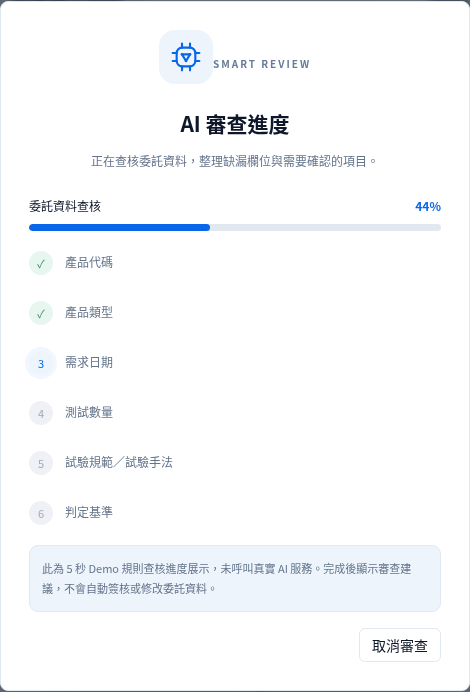
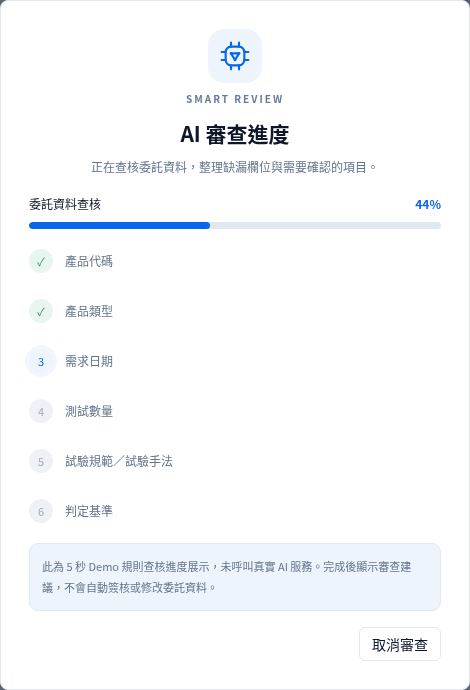
Reuse spaced SMART REVIEW progress dialog for report submission

diff --git a/src/LabApp.jsx b/src/LabApp.jsx
@@ -1,3 +1,4 @@
+import AiReviewProgress from './AiReviewProgress.jsx';
 import {canAccessLabPage} from './customRoles.mjs';
 import './LabWorkspaceExpansion.css';
 import MaterialsPage from './MaterialsPage.jsx';
@@ -45,7 +46,7 @@ import SignatureHistory from './SignatureHistory.jsx';
 import { auditSignatures } from './signatureHistory.mjs';
 import useDemoPersistence from './useDemoPersistence.js';
 import { readDemoAccounts } from "./demoAccounts.mjs";
-import React, { useEffect, useState } from "react";
+import React, { useEffect, useRef, useState } from "react";
 import "./LabApp.css";
 import './LoginEntry.css';
 import './LabLoginDetails.css';
@@ -126,6 +127,7 @@ export default function LabApp({ path, navigate }) {
   const [modalError, setModalError] = useState("");
   const [submitting, setSubmitting] = useState(false);
   const [reportProgress,setReportProgress]=useState(0);
+  const reportSubmitButton=useRef(null);
   const [reportMessage,setReportMessage]=useState('');
   const [reportCheck,setReportCheck]=useState(null);
   const [detail, setDetail] = useState(null);
@@ -230,7 +232,7 @@ export default function LabApp({ path, navigate }) {
   }
   const submitReport = async () => {
     if(preparingReport||submitting)return;
-    setSubmitting(true);setModalError('');setReportCheck(null);
+    setSubmitting(true);setReportProgress(0);setReportMessage('準備讀取報告');setModalError('');setReportCheck(null);
     try{await submitReportWorkflow({requestId:selected.id,file:reportFile,signature:labSignature,actorId:account.id,onProgress:(value,message)=>{setReportProgress(value);setReportMessage(message);}});setRequests(readStorage(STORAGE_KEY,[]));await refreshReportSnapshot();refreshLabSnapshot();setNotice('報告已通過 Demo 防呆檢查，送至 LMS 二階主管審核。');setSelected(null);}catch(error){setModalError(error.message);setReportCheck(error.check||null);}finally{setSubmitting(false);}
   };
 
@@ -278,7 +280,8 @@ export default function LabApp({ path, navigate }) {
       {equipmentRequest&&(()=>{const schedule=sharedSnapshot.schedules.find(r=>r.requestId===equipmentRequest);const machines=sharedSnapshot.equipment.filter(m=>schedule&&usesEquipment(schedule,m));return equipmentChoice?<EquipmentInfoModal equipment={machines.find(m=>m.id===equipmentChoice)||{id:equipmentChoice,name:'設備已移除'}} onClose={()=>{setEquipmentChoice(null);setEquipmentRequest(null);}}/>:<div className="lab-modal-backdrop"><section className="lab-modal" role="dialog" aria-label="試驗設備狀態"><h2>設備狀態｜{equipmentRequest}</h2>{machines.map(m=><p key={m.id}><button type="button" onClick={()=>setEquipmentChoice(m.id)}>{m.id} · {m.name} · {m.status}</button></p>)}{!machines.length&&<p>目前無對應設備。</p>}<button type="button" onClick={()=>setEquipmentRequest(null)}>關閉</button></section></div>;})()}
       {detail && <RequestInfoModal account={account} request={labRequestInformation(detail,sharedSnapshot)} onClose={()=>setDetail(null)}/>}
       {downloadJob && <div className="lab-modal-backdrop"><section className="lab-modal" role="dialog" aria-modal="true" aria-labelledby="download-title"><h2 id="download-title">取得試驗報告單</h2><p>委託編號：{downloadJob.id}</p><p>正在準備 Excel 範本</p><div style={{height:12,background:"#e5edf8",borderRadius:8,overflow:"hidden"}} role="progressbar" aria-label="下載準備進度" aria-valuemin={0} aria-valuemax={100} aria-valuenow={downloadProgress}><div style={{height:"100%",width:`${downloadProgress}%`,background:"#286bc4"}} /></div><p>{downloadProgress}%</p>{downloadProgress === 100 && <><p>已開始下載空白範本，請依委託資料填寫。</p><div className="lab-modal-actions"><button onClick={()=>downloadCaseTemplate(downloadJob.id).catch(error=>setNotice(error.message))}>重新下載</button><button className="lab-primary" onClick={() => setDownloadJob(null)}>關閉</button></div></>}</section></div>}
-      {selected && <div className="lab-modal-backdrop" role="presentation" onMouseDown={e => { if (!submitting && !preparingReport && e.target === e.currentTarget) setSelected(null); }}><section className={`lab-modal ${action==="submitReport"?"report-submit-modal":""}`} role="dialog" aria-modal="true" aria-labelledby="lab-modal-title"><h2 id="lab-modal-title">{({confirm:"確認接收",cancel:"申請取消",interrupt:"申請試驗中斷",complete:"完成試驗",submitReport:"提交試驗報告"})[action]}</h2><p>{selected.id} · {selected.project}</p>{action === "submitReport"&&<div className="report-quickfill-panel"><div className="report-actions"><button type="button" className="report-primary" disabled={submitting||preparingReport} onClick={()=>downloadCaseTemplate(selected.id,true).catch(error=>setModalError(error.message))}>DEMO 填入</button><button type="button" disabled={submitting||preparingReport} onClick={()=>downloadCaseTemplate(selected.id).catch(error=>setModalError(error.message))}>下載本案 Excel 範本</button>{reportFile&&<button type="button" disabled={submitting||preparingReport} onClick={downloadPreparedReport}>下載目前 Excel 報告</button>}</div><p>產生本案假資料 Excel、展示簽名並檢查；確認後提交送簽。</p><div className={`report-review-status ${passedDemoReview(reportCheck)?'is-passed':''}`} role="status"><strong>審查狀態：{(preparingReport||submitting)?'產生／檢查中…':passedDemoReview(reportCheck)?DEMO_REVIEW_PASSED:reportCheck?'未通過檢查':'尚未檢查'}</strong>{reportCheck&&<span>目前規則：{reportCheck.checks.filter(row=>row.ok).length}／{reportCheck.checks.length} 項通過</span>}</div><details className="report-quickfill-help"><summary>Demo 限制與出報告流程</summary><small>此為 Demo 規則模擬，未連接真正 AI；不代表正式試驗合格。圖片簽名無正式電子簽章效力。須依序完成二階、三階簽核，由委託者主管確認查閱後才產生 PDF 並封存。</small></details></div>}{!['confirm','cancel'].includes(action) && <ApprovalSignature key={selected.id} label="本次操作簽名" accountId={account.id} mode={signatureMode} onModeChange={setSignatureMode} value={labSignature} onChange={setLabSignature} onError={setModalError} />}{(action === "cancel" || action === "interrupt") && <><label htmlFor="lab-reason">原因（必填）</label><textarea id="lab-reason" value={reason} onChange={e => setReason(e.target.value)} placeholder="請填寫操作原因" rows="4" /></>}{action === "submitReport" && <>{preparingReport&&<p role="status">正在產生／檢查本案報告，請稍候…</p>}<label htmlFor="lab-report-file">上傳 Excel 報告（必填）</label><input id="lab-report-file" type="file" disabled={submitting||preparingReport} accept=".xlsx,application/vnd.openxmlformats-officedocument.spreadsheetml.sheet" onChange={e=>{setReportFile(e.target.files?.[0]||null);setModalError('');setReportCheck(null);}}/><p>{reportFile?.name||'尚未選擇檔案'}</p><div className="report-actions"><button type="button" disabled={!reportFile||submitting||preparingReport} onClick={previewReportCheck}>重新檢查報告</button></div><small>僅供 Demo：一般性能試驗使用已接入的雙工作表範本；其餘試驗暫用本案簡化範本（.xlsx，10 MB 以內）。請先下載本案範本，系統會帶入報告編號與品番。簽名位置由系統固定配置，無需設定。上傳時轉印執行人員簽名，三方由左至右為三階、二階、執行人員；不具正式電子簽章效力。Demo 僅依規則檢查欄位、判定勾選與公式，不代表所有測項完整或符合規格；PDF 支援標準表格及簽名，複雜圖表與巨集不適用。</small>{submitting&&<div className="report-progress" role="status"><p>報告防呆審查 · 規則檢查（非 AI 判讀）：{reportMessage}</p><progress max="100" value={reportProgress}/></div>}{reportCheck&&<div className="report-checks">{reportCheck.checks.map(row=><p key={row.label}>{row.ok?'✓':'!'} {row.label}：{row.detail}</p>)}</div>}</>}{modalError && <p className="lab-warning" role="alert">{modalError}</p>}{action==="submitReport"&&!sharedSnapshot.electronic.some(r=>r.id===selected.id)&&<button type="button" className="lab-primary" disabled={submitting||preparingReport} onClick={createLinkedDemoTrial}>建立完整流程 Demo 案件</button>}{(action === "cancel" || action === "interrupt") && <p className="lab-warning">{action==='cancel'?'送出後進入 LMS 待核准，一階主管核准後才退回待排程。':'中斷申請將交由 LMS 一階主管審核。'}</p>}<div className="lab-modal-actions"><button disabled={submitting||preparingReport} onClick={() => setSelected(null)}>返回</button><button className="lab-primary" disabled={submitting||preparingReport||(action==="submitReport"&&(!reportFile||!labSignature))} onClick={action === "submitReport" ? submitReport : performAction}>{submitting ? "檢查與儲存中…" : action === "submitReport" ? "提交" : "確認送出"}</button></div></section></div>}
+      {submitting&&selected&&action==='submitReport'&&<AiReviewProgress kind="report" progress={reportProgress} message={reportMessage} returnFocus={reportSubmitButton}/>}
+      {selected && <div className="lab-modal-backdrop" role="presentation" onMouseDown={e => { if (!submitting && !preparingReport && e.target === e.currentTarget) setSelected(null); }}><section className={`lab-modal ${action==="submitReport"?"report-submit-modal":""}`} role="dialog" aria-modal="true" aria-labelledby="lab-modal-title"><h2 id="lab-modal-title">{({confirm:"確認接收",cancel:"申請取消",interrupt:"申請試驗中斷",complete:"完成試驗",submitReport:"提交試驗報告"})[action]}</h2><p>{selected.id} · {selected.project}</p>{action === "submitReport"&&<div className="report-quickfill-panel"><div className="report-actions"><button type="button" className="report-primary" disabled={submitting||preparingReport} onClick={()=>downloadCaseTemplate(selected.id,true).catch(error=>setModalError(error.message))}>DEMO 填入</button><button type="button" disabled={submitting||preparingReport} onClick={()=>downloadCaseTemplate(selected.id).catch(error=>setModalError(error.message))}>下載本案 Excel 範本</button>{reportFile&&<button type="button" disabled={submitting||preparingReport} onClick={downloadPreparedReport}>下載目前 Excel 報告</button>}</div><p>產生本案假資料 Excel、展示簽名並檢查；確認後提交送簽。</p><div className={`report-review-status ${passedDemoReview(reportCheck)?'is-passed':''}`} role="status"><strong>審查狀態：{(preparingReport||submitting)?'產生／檢查中…':passedDemoReview(reportCheck)?DEMO_REVIEW_PASSED:reportCheck?'未通過檢查':'尚未檢查'}</strong>{reportCheck&&<span>目前規則：{reportCheck.checks.filter(row=>row.ok).length}／{reportCheck.checks.length} 項通過</span>}</div><details className="report-quickfill-help"><summary>Demo 限制與出報告流程</summary><small>此為 Demo 規則模擬，未連接真正 AI；不代表正式試驗合格。圖片簽名無正式電子簽章效力。須依序完成二階、三階簽核，由委託者主管確認查閱後才產生 PDF 並封存。</small></details></div>}{!['confirm','cancel'].includes(action) && <ApprovalSignature key={selected.id} label="本次操作簽名" accountId={account.id} mode={signatureMode} onModeChange={setSignatureMode} value={labSignature} onChange={setLabSignature} onError={setModalError} />}{(action === "cancel" || action === "interrupt") && <><label htmlFor="lab-reason">原因（必填）</label><textarea id="lab-reason" value={reason} onChange={e => setReason(e.target.value)} placeholder="請填寫操作原因" rows="4" /></>}{action === "submitReport" && <>{preparingReport&&<p role="status">正在產生／檢查本案報告，請稍候…</p>}<label htmlFor="lab-report-file">上傳 Excel 報告（必填）</label><input id="lab-report-file" type="file" disabled={submitting||preparingReport} accept=".xlsx,application/vnd.openxmlformats-officedocument.spreadsheetml.sheet" onChange={e=>{setReportFile(e.target.files?.[0]||null);setModalError('');setReportCheck(null);}}/><p>{reportFile?.name||'尚未選擇檔案'}</p><div className="report-actions"><button type="button" disabled={!reportFile||submitting||preparingReport} onClick={previewReportCheck}>重新檢查報告</button></div><small>僅供 Demo：一般性能試驗使用已接入的雙工作表範本；其餘試驗暫用本案簡化範本（.xlsx，10 MB 以內）。請先下載本案範本，系統會帶入報告編號與品番。簽名位置由系統固定配置，無需設定。上傳時轉印執行人員簽名，三方由左至右為三階、二階、執行人員；不具正式電子簽章效力。Demo 僅依規則檢查欄位、判定勾選與公式，不代表所有測項完整或符合規格；PDF 支援標準表格及簽名，複雜圖表與巨集不適用。</small>{reportCheck&&<div className="report-checks">{reportCheck.checks.map(row=><p key={row.label}>{row.ok?'✓':'!'} {row.label}：{row.detail}</p>)}</div>}</>}{modalError && <p className="lab-warning" role="alert">{modalError}</p>}{action==="submitReport"&&!sharedSnapshot.electronic.some(r=>r.id===selected.id)&&<button type="button" className="lab-primary" disabled={submitting||preparingReport} onClick={createLinkedDemoTrial}>建立完整流程 Demo 案件</button>}{(action === "cancel" || action === "interrupt") && <p className="lab-warning">{action==='cancel'?'送出後進入 LMS 待核准，一階主管核准後才退回待排程。':'中斷申請將交由 LMS 一階主管審核。'}</p>}<div className="lab-modal-actions"><button disabled={submitting||preparingReport} onClick={() => setSelected(null)}>返回</button><button ref={reportSubmitButton} className="lab-primary" disabled={submitting||preparingReport||(action==="submitReport"&&(!reportFile||!labSignature))} onClick={action === "submitReport" ? submitReport : performAction}>{submitting ? "檢查與儲存中…" : action === "submitReport" ? "提交" : "確認送出"}</button></div></section></div>}
     </div>
   );
 }

diff --git a/src/AiReviewProgress.jsx b/src/AiReviewProgress.jsx
@@ -5,16 +5,19 @@ import useSystemTheme from './useSystemTheme.js';
 import './ScheduleArrangement.css';
 import './AiReviewProgress.css';
 
-const steps=['產品代碼','產品類型','需求日期','測試數量','試驗規範／試驗手法','判定基準'];
-export default function AiReviewProgress({progress,onCancel,returnFocus}){
+const requestSteps=['產品代碼','產品類型','需求日期','測試數量','試驗規範／試驗手法','判定基準'];
+const reportSteps=['讀取 Excel 報告','查核委託編號、試驗結果與公式','確認簽名、儲存報告並送二階主管審核'];
+export default function AiReviewProgress({progress,onCancel,returnFocus,kind='request',message}){
  const {dark}=useSystemTheme(),dialog=useRef(null),cancel=useRef(null);
- useEffect(()=>{const node=dialog.current,trigger=returnFocus.current,overflow=document.body.style.overflow;document.body.style.overflow='hidden';node.showModal();cancel.current?.focus({preventScroll:true});return()=>{node.close();document.body.style.overflow=overflow;trigger?.focus({preventScroll:true});};},[returnFocus]);
- const active=Math.min(steps.length-1,Math.floor(progress*steps.length/100));
- return createPortal(<div className={`ai-review-progress-host lms-enterprise ${dark?'theme-dark':'theme-light'}`}><dialog ref={dialog} className="schedule-ai-dialog ai-review-progress-dialog" aria-labelledby="ai-review-progress-title" aria-describedby="ai-review-progress-description" aria-busy="true" onCancel={event=>{event.preventDefault();event.stopPropagation();onCancel();}}>
-  <header><span className="schedule-ai-symbol" aria-hidden="true"><AssistantIcon size={22}/></span><span>SMART REVIEW</span><h3 id="ai-review-progress-title">AI 審查進度</h3><p id="ai-review-progress-description">正在查核委託資料，整理缺漏欄位與需要確認的項目。</p></header>
-  <div className="schedule-ai-progress-heading"><span>委託資料查核</span><strong>{progress}%</strong></div><div className="schedule-ai-progress" role="progressbar" aria-label="審查進度" aria-valuenow={progress} aria-valuemin={0} aria-valuemax={100}><span style={{width:`${progress}%`}}/></div>
+ const report=kind==='report',steps=report?reportSteps:requestSteps;
+ const title=report?'AI 報告審查進度':'AI 審查進度';
+ useEffect(()=>{const node=dialog.current,trigger=returnFocus.current,overflow=document.body.style.overflow;document.body.style.overflow='hidden';node.showModal();(cancel.current?.disabled?node:cancel.current)?.focus({preventScroll:true});return()=>{node.close();document.body.style.overflow=overflow;trigger?.focus({preventScroll:true});};},[returnFocus]);
+ const active=report?(progress<45?0:progress<80?1:2):Math.min(steps.length-1,Math.floor(progress*steps.length/100));
+ return createPortal(<div className={`ai-review-progress-host lms-enterprise ${dark?'theme-dark':'theme-light'}`}><dialog ref={dialog} className="schedule-ai-dialog ai-review-progress-dialog" aria-labelledby="ai-review-progress-title" aria-describedby="ai-review-progress-description" aria-busy="true" tabIndex={-1} onCancel={event=>{event.preventDefault();event.stopPropagation();onCancel?.();}}>
+  <header><span className="schedule-ai-symbol" aria-hidden="true"><AssistantIcon size={22}/></span><span className="ai-progress-eyebrow">SMART REVIEW</span><h3 id="ai-review-progress-title">{title}</h3><p id="ai-review-progress-description">{report?'正在查核報告內容、簽名與檔案格式，依既有規則完成提交。':'正在查核委託資料，整理缺漏欄位與需要確認的項目。'}</p></header>
+  <div className="schedule-ai-progress-heading"><span>{report?'報告資料查核':'委託資料查核'}</span><strong>{progress}%</strong></div><div className="schedule-ai-progress" role="progressbar" aria-label={report?'報告審查進度':'審查進度'} aria-valuenow={progress} aria-valuemin={0} aria-valuemax={100}><span style={{width:`${progress}%`}}/></div>
   <ol className="schedule-ai-steps">{steps.map((step,index)=><li key={step} className={index<active?'complete':index===active?'active':''}><span aria-hidden="true">{index<active?'✓':index+1}</span><p>{step}</p></li>)}</ol>
-  <p className="schedule-ai-step-status" role="status">正在檢查：{steps[active]}</p><p className="schedule-ai-explanation">此為 5 秒 Demo 規則查核進度展示，未呼叫真實 AI 服務。完成後顯示審查建議，不會自動簽核或修改委託資料。</p>
-  <footer><button ref={cancel} type="button" onClick={onCancel}>取消審查</button></footer>
+  <p className="schedule-ai-step-status" role="status">{message||`正在檢查：${steps[active]}`}</p><p className="schedule-ai-explanation">{report?'報告防呆審查採 Demo 規則檢查，非 AI 判讀；進度依實際處理階段顯示。通過後提交二階主管審核，尚不代表主管核准。儲存期間請稍候。':'此為 5 秒 Demo 規則查核進度展示，未呼叫真實 AI 服務。完成後顯示審查建議，不會自動簽核或修改委託資料。'}</p>
+  <footer><button ref={cancel} type="button" disabled={!onCancel} onClick={onCancel}>{onCancel?'取消審查':'正在查核與提交…'}</button></footer>
  </dialog></div>,document.body);
 }

diff --git a/e2e/ai-review-progress.spec.js b/e2e/ai-review-progress.spec.js
@@ -4,7 +4,7 @@ for(const width of [1366,390])for(const theme of ['light','dark'])test(`AI revie
  const time=new Date('2026-11-04T04:00:00Z');await page.clock.install({time});await page.clock.pauseAt(new Date(time.getTime()+1000));await page.setViewportSize({width,height:width===390?844:900});
  await page.addInitScript(({accounts,theme})=>{if(!localStorage.getItem('ai-review-seeded')){localStorage.setItem('ai-review-seeded','1');localStorage.setItem('dqa-shared-demo-accounts-v1',JSON.stringify(accounts));localStorage.setItem('dqa-global-theme',theme);localStorage.setItem('dqa-completed-flow-provisioned-v1',JSON.stringify({created:false}));for(const key of ['dqa-request-demo-v2','dqa-lab-operations-v1','dqa-borrow-requests-v1','dqa-schedules-demo-v1','dqa_lab_demo_requests_v1'])localStorage.setItem(key,'[]');localStorage.setItem('dqa-lms-reviews-v1',JSON.stringify([{id:'AI-PROGRESS-DEMO',title:'高溫儲存試驗',productCode:'DEMO-001',department:'Demo 部門',applicant:'Demo 工程師',priority:'一般',submitted:'2026-11-04',status:'待審查',history:[],approval:0,quantity:2}]));}sessionStorage.setItem('dqa-lms-account-id','U001');},{accounts:INITIAL_ACCOUNTS,theme});
  await page.goto('/lms/requests');await page.getByRole('button',{name:'審查',exact:true}).first().click();const request=page.locator('.request-modal'),ai=request.getByRole('button',{name:'AI 審查',exact:true});const snapshot=()=>page.evaluate(()=>Object.fromEntries(['dqa-request-demo-v2','dqa-lms-reviews-v1','dqa-schedules-demo-v1','dqa-shared-demo-accounts-v1'].map(key=>[key,localStorage.getItem(key)])));const before=await snapshot();
- await ai.click();let progress=page.getByRole('dialog',{name:'AI 審查進度',exact:true});await expect(progress).toBeVisible();expect(await progress.evaluate(el=>el.matches(':modal'))).toBe(true);await expect(progress.getByRole('button',{name:'取消審查',exact:true})).toBeFocused();await page.clock.runFor(2200);const bar=progress.getByRole('progressbar',{name:'審查進度',exact:true});expect(Number(await bar.getAttribute('aria-valuenow'))).toBeGreaterThanOrEqual(40);expect(Number(await bar.getAttribute('aria-valuenow'))).toBeLessThan(100);await expect(progress.locator('.schedule-ai-steps li')).toHaveCount(6);await expect(progress).toContainText('Demo 規則查核');const box=await progress.boundingBox();expect(box.x).toBeGreaterThanOrEqual(0);expect(box.x+box.width).toBeLessThanOrEqual(width);await progress.screenshot({animations:'disabled',path:test.info().outputPath(`ai-review-progress-${width}-${theme}.png`)});
+ await ai.click();let progress=page.getByRole('dialog',{name:'AI 審查進度',exact:true});await expect(progress).toBeVisible();expect(await progress.evaluate(el=>el.matches(':modal'))).toBe(true);await expect(progress.getByRole('button',{name:'取消審查',exact:true})).toBeFocused();await page.clock.runFor(2200);const bar=progress.getByRole('progressbar',{name:'審查進度',exact:true});expect(Number(await bar.getAttribute('aria-valuenow'))).toBeGreaterThanOrEqual(40);expect(Number(await bar.getAttribute('aria-valuenow'))).toBeLessThan(100);await expect(progress.locator('.schedule-ai-steps li')).toHaveCount(6);const symbol=await progress.locator('.schedule-ai-symbol').boundingBox(),eyebrow=await progress.locator('.ai-progress-eyebrow').boundingBox();expect(eyebrow.y-symbol.y-symbol.height).toBeGreaterThanOrEqual(6);await expect(progress).toContainText('Demo 規則查核');const box=await progress.boundingBox();expect(box.x).toBeGreaterThanOrEqual(0);expect(box.x+box.width).toBeLessThanOrEqual(width);await progress.screenshot({animations:'disabled',path:test.info().outputPath(`ai-review-progress-${width}-${theme}.png`)});
  await page.clock.runFor(3000);await expect(progress).toHaveCount(0);await expect(request.getByRole('heading',{name:'AI 審查結果',exact:true})).toBeVisible();await expect(request).toContainText('缺少產品類型');await expect(ai).toBeFocused();expect(await snapshot()).toEqual(before);
  await ai.click();await page.clock.runFor(1200);await page.getByRole('dialog',{name:'AI 審查進度',exact:true}).getByRole('button',{name:'取消審查',exact:true}).click();await expect(ai).toBeFocused();await page.clock.runFor(6000);await expect(request.getByRole('heading',{name:'AI 審查結果',exact:true})).toHaveCount(0);await expect(request).toBeVisible();
  await ai.click();await page.keyboard.press('Escape');await expect(page.getByRole('dialog',{name:'AI 審查進度',exact:true})).toHaveCount(0);await expect(request).toBeVisible();await expect(ai).toBeFocused();await page.clock.runFor(6000);await expect(request.getByRole('heading',{name:'AI 審查結果',exact:true})).toHaveCount(0);expect(await snapshot()).toEqual(before);expect(await page.evaluate(()=>document.documentElement.scrollWidth<=innerWidth)).toBe(true);expect(await page.pageErrors()).toEqual([]);

diff --git a/e2e/report-ai-progress.spec.js b/e2e/report-ai-progress.spec.js
@@ -1,0 +1,12 @@
+import {test,expect} from '@playwright/test';
+import {INITIAL_ACCOUNTS} from '../src/demoAccounts.mjs';
+for(const width of [1366,390])for(const theme of ['light','dark'])test(`report AI-style progress ${width} ${theme}: real stages and existing submission validation`,async({page})=>{
+ const time=new Date('2026-11-04T04:00:00Z');await page.clock.install({time});await page.setViewportSize({width,height:width===390?844:900});
+ await page.addInitScript(({accounts,theme})=>{if(!localStorage.getItem('report-progress-seeded')){localStorage.setItem('report-progress-seeded','1');localStorage.setItem('dqa-shared-demo-accounts-v1',JSON.stringify(accounts));localStorage.setItem('dqa-global-theme',theme);localStorage.setItem('dqa-completed-flow-provisioned-v1',JSON.stringify({created:false}));for(const key of ['dqa-request-demo-v2','dqa-lms-reviews-v1','dqa-schedules-demo-v1','dqa_lab_demo_requests_v1','dqa_lab_demo_audit_v1','dqa-lab-operations-v1','dqa-borrow-requests-v1'])localStorage.setItem(key,'[]');}sessionStorage.setItem('dqa-lab-account-id','U003');},{accounts:INITIAL_ACCOUNTS,theme});
+ await page.goto('/lab/dashboard');await page.getByRole('button',{name:'Demo試驗加速器',exact:true}).click();await page.getByRole('button',{name:'Demo試驗加速器',exact:true}).click();await page.getByRole('button',{name:'提交報告',exact:true}).click();await page.getByRole('button',{name:'DEMO 填入',exact:true}).click();await expect(page.locator('.report-review-status')).toContainText('通過 AI 全檢');const id=await page.evaluate(()=>JSON.parse(localStorage.getItem('dqa_lab_demo_requests_v1'))[0].id);
+ const report=()=>page.evaluate(async id=>{const {getReport}=await import('/src/reportStore.mjs');const r=await getReport(id);return r?{stage:r.stage,approvals:r.approvals,pdfName:r.pdfName}:null;},id);
+ if(theme==='light'&&width===1366){await page.locator('#lab-report-file').setInputFiles({name:'invalid.xlsx',mimeType:'application/vnd.openxmlformats-officedocument.spreadsheetml.sheet',buffer:Buffer.from('not an Excel file')});await page.getByRole('button',{name:'提交',exact:true}).click();await expect(page.locator('.lab-warning[role=alert]')).toBeVisible();await expect(page.getByRole('dialog',{name:'AI 報告審查進度',exact:true})).toHaveCount(0);expect(await report()).toBeNull();await expect(page.getByRole('button',{name:'提交',exact:true})).toBeEnabled();await page.getByRole('button',{name:'DEMO 填入',exact:true}).click();await expect(page.locator('.report-review-status')).toContainText('通過 AI 全檢');}
+ await page.clock.pauseAt(new Date(await page.evaluate(()=>Date.now())+1000));
+ await page.getByRole('button',{name:'提交',exact:true}).click();const progress=page.getByRole('dialog',{name:'AI 報告審查進度',exact:true});await expect(progress).toBeVisible();expect(await progress.evaluate(el=>el.matches(':modal'))).toBe(true);await expect.poll(async()=>{await page.clock.runFor(1);return progress.getByRole('progressbar',{name:'報告審查進度',exact:true}).getAttribute('aria-valuenow');},{timeout:15000,intervals:[10,20,50]}).toBe('80');await expect(progress).toContainText('非 AI 判讀');await expect(progress.locator('.schedule-ai-steps li')).toHaveCount(3);await expect(progress.getByRole('button',{name:'正在查核與提交…',exact:true})).toBeDisabled();await page.keyboard.press('Escape');await expect(progress).toBeVisible();expect(await report()).toBeNull();const symbol=await progress.locator('.schedule-ai-symbol').boundingBox(),eyebrow=await progress.locator('.ai-progress-eyebrow').boundingBox();expect(eyebrow.y-symbol.y-symbol.height).toBeGreaterThanOrEqual(6);await progress.screenshot({animations:'disabled',path:test.info().outputPath(`report-ai-progress-${width}-${theme}.png`)});
+ await page.clock.runFor(1500);await expect(progress).toHaveCount(0);await expect(page.getByRole('status')).toContainText('送至 LMS 二階主管審核');expect(await report()).toEqual({stage:'level2',approvals:[],pdfName:undefined});expect(await page.evaluate(id=>JSON.parse(localStorage.getItem('dqa-request-demo-v2')).find(r=>r.id===id).status,id)).toBe('待審核');expect(await page.pageErrors()).toEqual([]);
+});

diff --git a/playwright.admin-regression.config.js b/playwright.admin-regression.config.js
@@ -1,5 +1,5 @@
 import {defineConfig} from '@playwright/test';
 // Keep source-import integration tests on Vite dev; exercise all other suites on the production build.
-const sourceSuites=['demo.spec.js','nine-stage-seed.spec.js','request-borrow-ui.spec.js','lms-review-tabs.spec.js','system-tabs.spec.js','report-prearchive-preview.spec.js'];
+const sourceSuites=['demo.spec.js','nine-stage-seed.spec.js','request-borrow-ui.spec.js','lms-review-tabs.spec.js','system-tabs.spec.js','report-prearchive-preview.spec.js','report-ai-progress.spec.js'];
 const launchOptions={executablePath:process.env.PLAYWRIGHT_CHROMIUM_EXECUTABLE_PATH||'/usr/bin/chromium',args:['--disable-dev-shm-usage']};
 export default defineConfig({testDir:'./e2e',outputDir:'./work/admin-regression',workers:2,timeout:60000,use:{timezoneId:'Asia/Taipei',actionTimeout:15000,trace:'retain-on-failure',launchOptions},projects:[{name:'existing-source-integrations',testMatch:sourceSuites,use:{baseURL:'http://127.0.0.1:4213'}},{name:'production-workspaces',testIgnore:sourceSuites,use:{baseURL:'http://127.0.0.1:4212'}}],webServer:[{command:'npm run dev -- --host 127.0.0.1 --port 4213 --strictPort',url:'http://127.0.0.1:4213',reuseExistingServer:false},{command:'npm run preview -- --host 127.0.0.1 --port 4212 --strictPort',url:'http://127.0.0.1:4212',reuseExistingServer:false}]});

diff --git a/src/AiReviewProgress.css b/src/AiReviewProgress.css
@@ -10,3 +10,10 @@
 .ai-review-progress-dialog .schedule-ai-explanation{background:var(--soft);border:1px solid var(--enterprise-border);color:var(--enterprise-secondary)}
 .ai-review-progress-dialog .schedule-ai-progress{background:var(--enterprise-border)}
 .ai-review-progress-dialog .schedule-ai-progress-heading strong{color:var(--tab-accent)}
+
+.ai-review-progress-host .ai-review-progress-dialog>header{display:flex;flex-direction:column;align-items:center;gap:8px;text-align:center}
+.ai-review-progress-dialog>header .schedule-ai-symbol{margin:0 auto}
+.ai-review-progress-dialog>header .ai-progress-eyebrow{display:block;letter-spacing:.16em;line-height:1.5;margin:0}
+.ai-review-progress-dialog>header h3{margin:4px 0 0}
+.ai-review-progress-dialog>header p{margin:0 0 16px}
+.ai-review-progress-dialog footer button:disabled{opacity:.7;cursor:wait}

diff --git a/docs/report-ai-progress/README.md b/docs/report-ai-progress/README.md
@@ -1,0 +1,13 @@
+# 報告提交查核進度與 SMART REVIEW 排列
+
+- 圖示、SMART REVIEW、主標題改為上下置中與明確間距；委託查核及報告提交共用。
+- 實驗室提交報告改用相同浮動視窗，取代原資訊內容內的跑條。
+- 報告使用既有 submitReportWorkflow 的實際進度回呼（20／45／80／100），顯示 Excel 讀取、委託編號／結果／公式檢查、簽名確認及儲存送二階主管；未增加模擬等待時間。
+- 明示目前為 Demo 規則檢查，非真實 AI 判讀。依原規則，提交與儲存中不可取消，Escape 不會僅關閉視窗而讓提交繼續。成功後回到清單，失敗保留原報告視窗與錯誤，供修正後重試。
+- 委託單 AI 查核仍支援取消與 Escape；原有規則、報告檔案驗證、簽名、權限、審核及結案流程不變。
+
+Lint、Production Build、diff check通過。8項桌面／手機深淺色瀏覽器案例通過，涵蓋標題不重疊、委託查核完成／取消、報告實際階段、無效Excel拒絕、寫入期間保護、成功送二階主管且無審核簽名／PDF。報告工作流程及Demo報告準備兩個單元測試檔通過。
+
+[報告提交：桌面淺色](desktop-light.png) · [手機深色](mobile-dark.png) · [委託查核新標題](../ai-review-progress/desktop-light.png)
+
+本輪僅本機提交，未推送、合併或部署。
